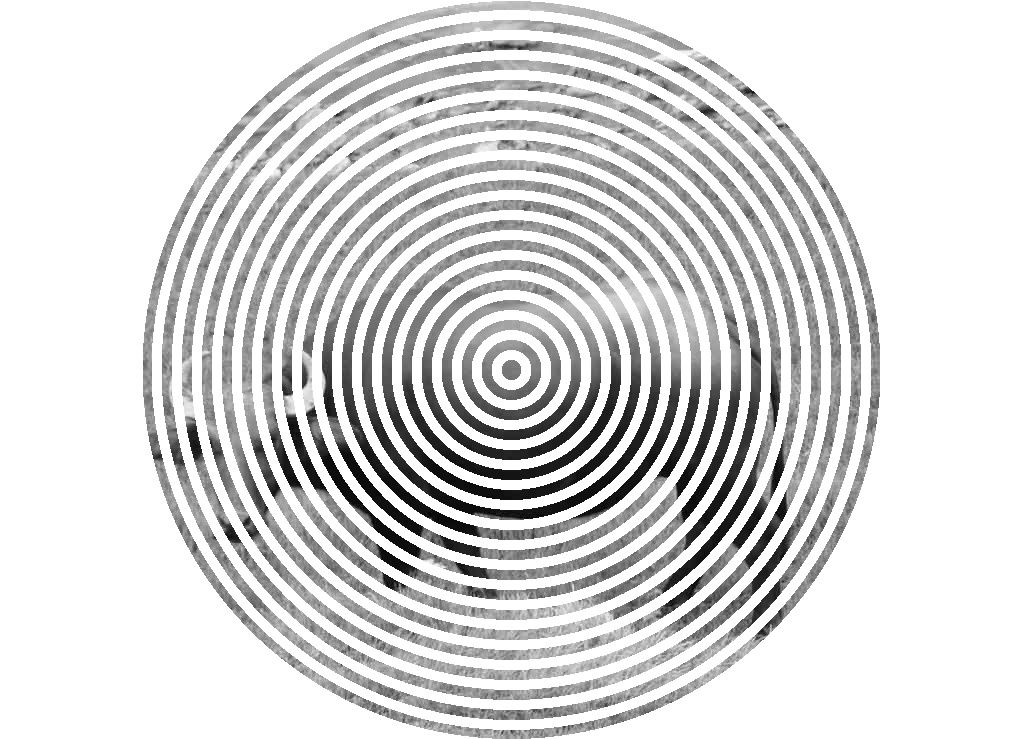
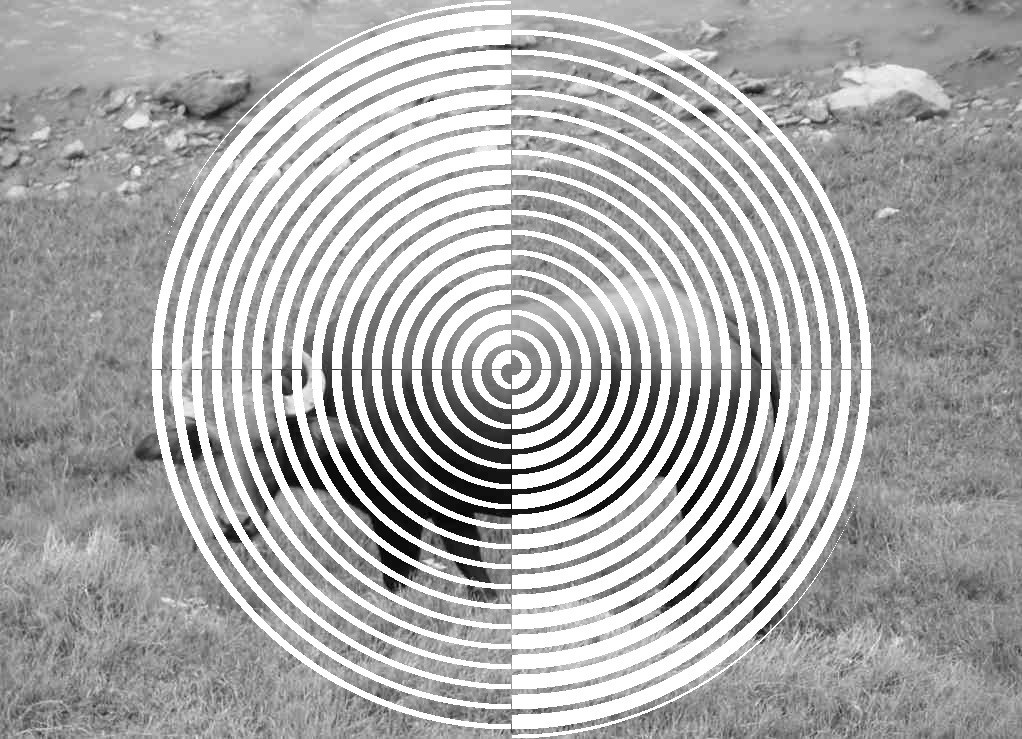
add

diff --git a/opencv/蚊香画.py b/opencv/蚊香画.py
@@ -3,30 +3,57 @@ import cv2
 import numpy as np
 import math
 
-#读取图片
-src = cv2.imread("../picture/niu.jpg", cv2.IMREAD_UNCHANGED)
-img = cv2.cvtColor(src, cv2.COLOR_BGR2GRAY)
-rows, cols, chn = src.shape
-D = min(rows,cols)
-R = math.floor(D/2)
-point = [rows/2,cols/2]
+# 定义变量
+X0 = 20
+PI = math.pi
+W_white = W_black = 10
+path = 'e:\\xie\\crawler-demo\\picture\\niu.jpg'
 
-v = 20
+def get_distance(p1,p2):
+    return math.sqrt(math.pow(p1[0]-p2[0],2)+math.pow(p1[1]-p2[1],2))
 
-print('高，列：',rows,cols,chn,R)
-print(img[0,0])
+def is_on_arc1(p):
+    dis = get_distance([0,0],p)
+    arc = math.atan(p[1]/p[0])
+    res = dis + arc*X0/(2*PI) - X0*math.floor(dis/X0+1)
+    return res<=W_white and res>=W_white*(-1)
 
-for i in range(0,rows):
-    for j in range(0,cols):
-        dis = math.sqrt(math.pow(i-point[0],2)+math.pow(j-point[1],2))
-        remainder = dis%20
-        if(dis > R or remainder>10):
-            img[i,j] = 255
+def is_on_arc(p):
+    dis = get_distance([0,0],p)
+    arc = math.atan(p[1]/p[0])
+    f = math.floor(dis/X0+1) * 2 * PI
+    l = dis/(f-arc)
+    m = X0/(2*PI)
+    r = (dis - 2*3) / (f-arc)
+    return m < l and m > r
+
+def get_data():
+    #读取图片
+    src = cv2.imread(path, cv2.IMREAD_UNCHANGED)
+    img = cv2.cvtColor(src, cv2.COLOR_BGR2GRAY)
+    rows, cols, chn = src.shape
+    D = min(rows,cols)
+    R = math.floor(D/2)
+    point = [math.floor(rows/2),math.floor(cols/2)]
+
+    print('高，列：',rows,cols,chn,R)
+    print(point,R,math.floor(point[0]-R),math.floor(point[0]+R),math.floor(point[1]-R),math.floor(point[1]+R))
+    
+    return
+    for i in range(math.floor(point[0]-R),math.floor(point[0]+R)):
+        for j in range(math.floor(point[1]-R),math.floor(point[1]+R)):
+            y = int(i - point[0])
+            x = int(j - point[1])
+            if(x!=0 and y!=0 and get_distance([0,0],[x,y])<=R and is_on_arc1([x,y])):
+                img[i,j] = 255
+
+    cv2.imshow("wenxiang", img)
+
+    cv2.imwrite('e:\\xie\\crawler-demo\\picture\\wenxiang.jpg',img)
+
+    cv2.waitKey(0)
+    cv2.destroyAllWindows()
 
 
-# cv2.imshow("wenxiang", img)
-
-cv2.imwrite('../picture/wenxiang.jpg',img)
-
-cv2.waitKey(0)
-cv2.destroyAllWindows()
+if __name__ == '__main__':
+    get_data()
